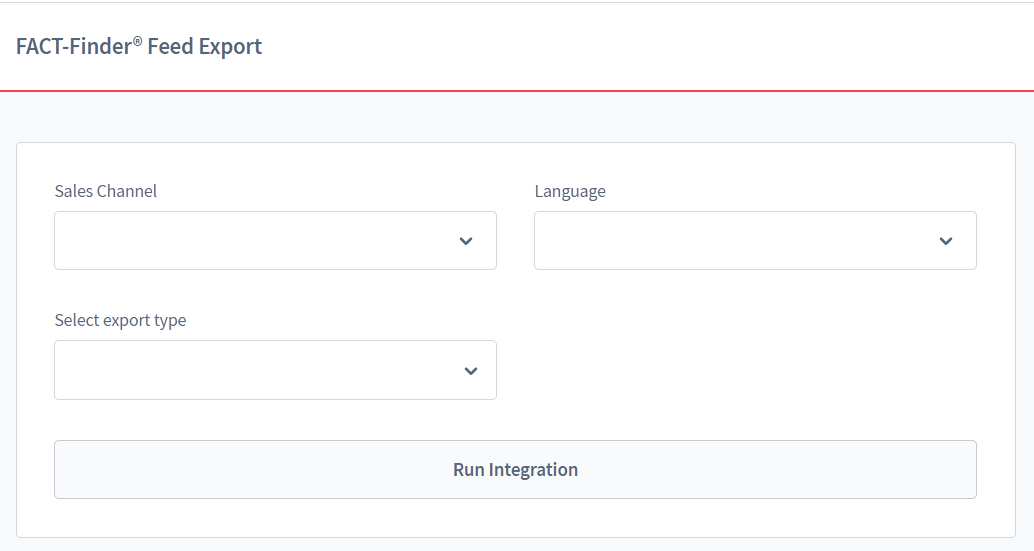
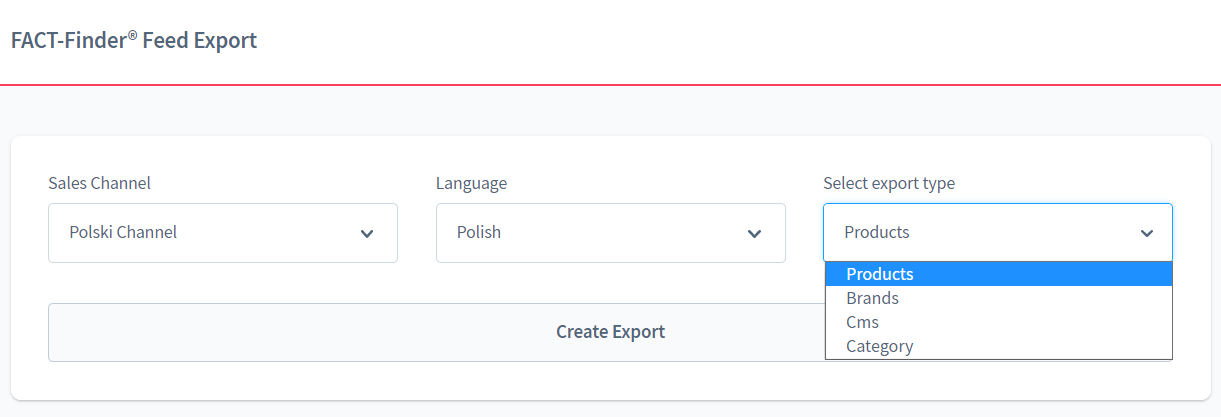
FFWEB-2657: Fix problem with not working export from admin panel

diff --git a/src/Api/UpdateFieldRolesController.php b/src/Api/UpdateFieldRolesController.php
@@ -30,7 +30,7 @@ class UpdateFieldRolesController extends AbstractController
     }
 
     /**
-     * @Route("/api/_action/field-roles/update", name="api.action.fact_finder.export_feed", methods={"GET"}, defaults={"XmlHttpRequest"=true})
+     * @Route("/api/_action/field-roles/update", name="api.action.fact_finder.field_roles.update", methods={"GET"}, defaults={"XmlHttpRequest"=true})
      *
      * @return JsonResponse
      *

diff --git a/README.md b/README.md
@@ -309,8 +309,14 @@ A dedicated form can be found under `Extensions` section
 
 ![Admin Panel Export Form](docs/assets/admin-panel-export-form.png "Admin Panel Export Form")
 Select fields allows you to select sales channel and languague parameter for which an integration shall be run.
+Select export type gives you possibility to create different content of data available in your Shopware instance.
+Export can be done for:
+ - Products
+ - Brands
+ - Cms
+ - Category
 
-`Run Integration` Send a message to a bus which then might be consumed automatically by an admin worker (if enabled)
+`Create Export` Send a message to a bus which then might be consumed automatically by an admin worker (if enabled)
 or by CLI worker. More information about messaging you can find in official Shopware [documentation](https://developer.shopware.com/docs/guides/hosting/infrastructure/message-queue)
 
 

diff --git a/CHANGELOG.md b/CHANGELOG.md
@@ -21,6 +21,8 @@
 - SSR
   - BeforeSendResponseEventSubscriber - fix Call to a member function getId() on null
   - solve problem with empty filterAttributes in export
+- Export
+  - Fix problem with not working export from admin panel
 
 ## [v4.1.0] - 2023.01.05
 ### Add
